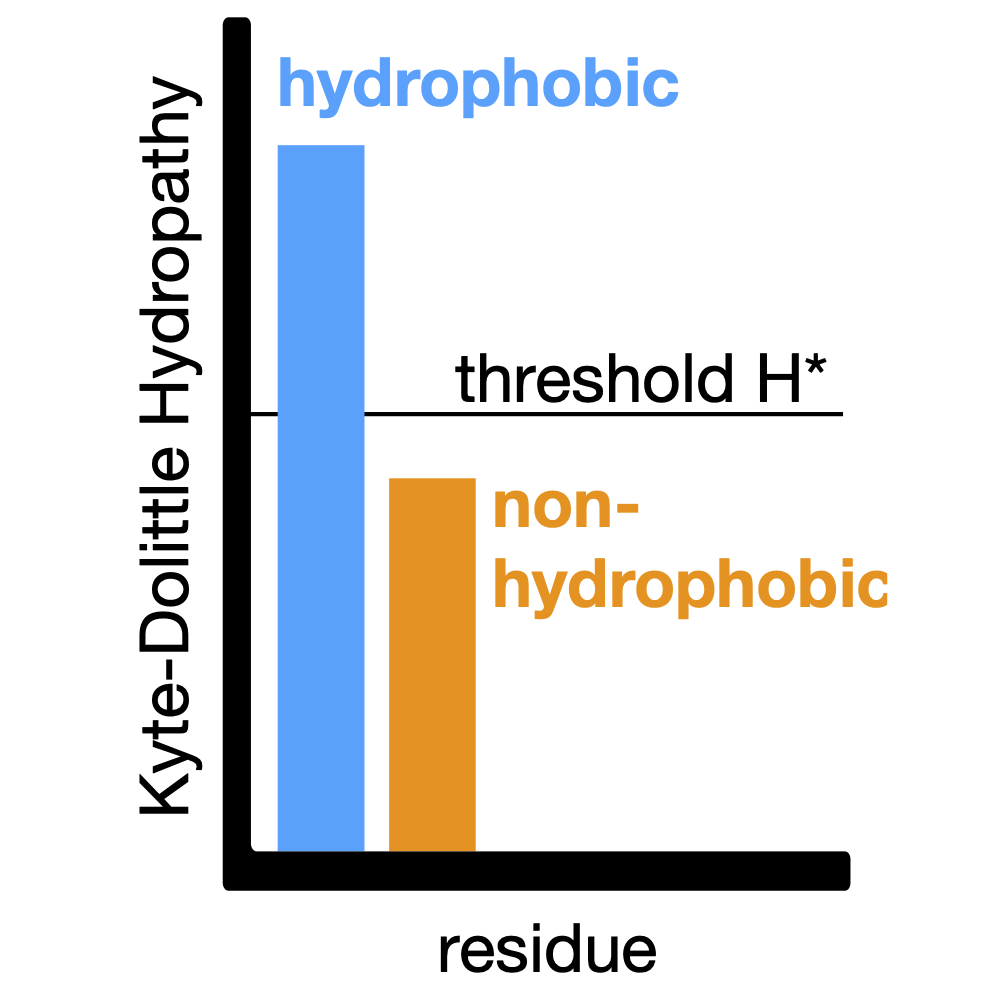
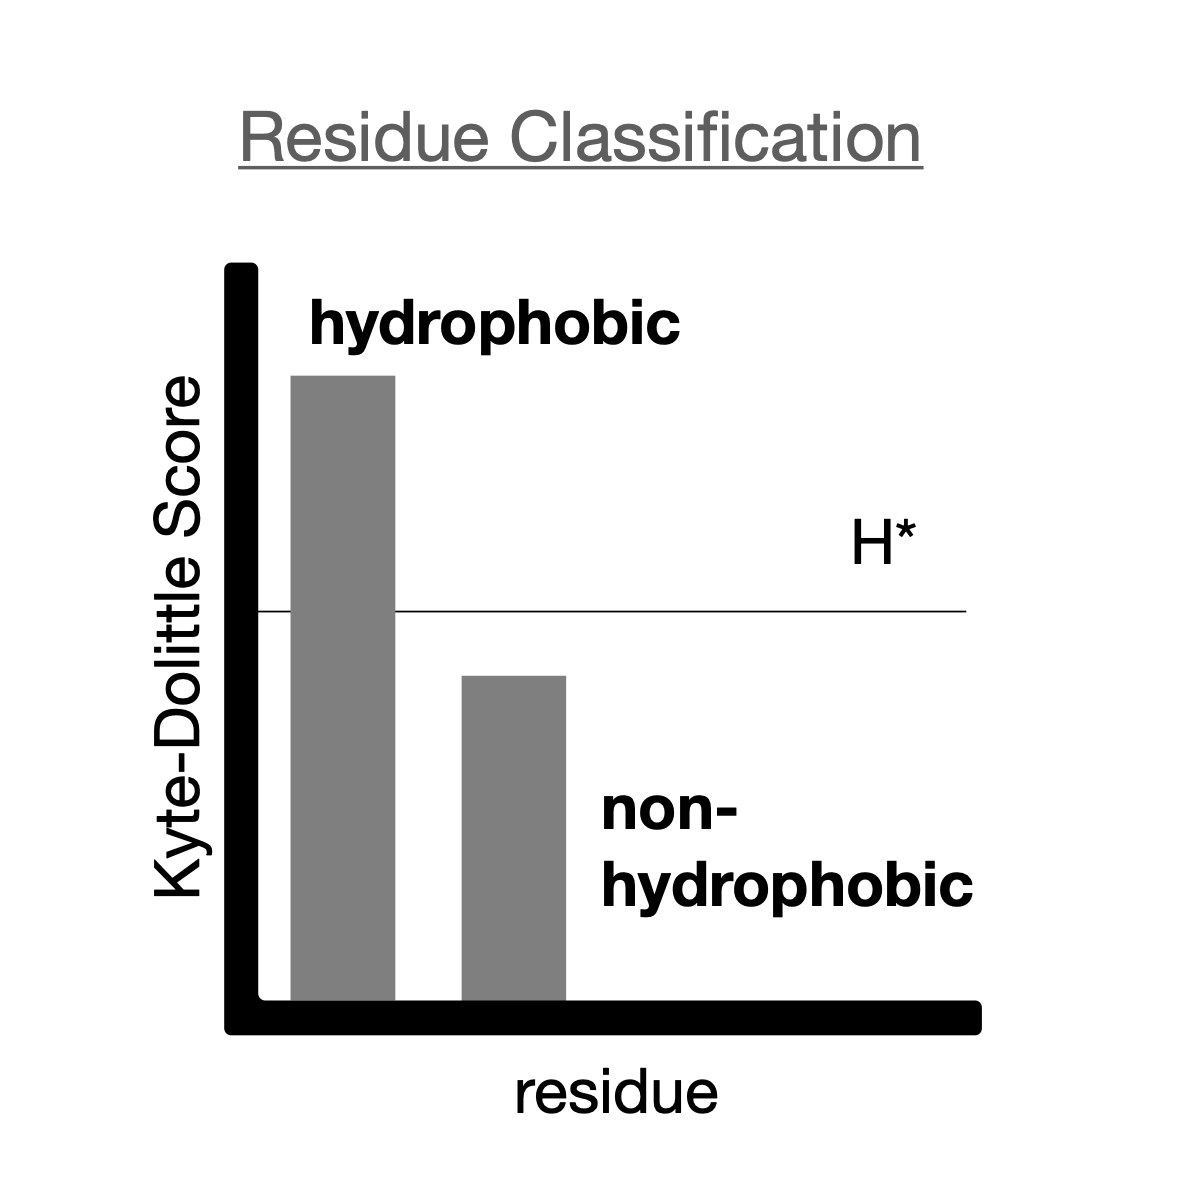
revising text for first two track tooltips

Changed region(s): [[0.124, 0.0, 0.899, 0.992]]

diff --git a/templates/result.html b/templates/result.html
@@ -13,10 +13,9 @@
 $(document).ready( function() {
 	//--------------Javascript for plotting in d3-------------
 	//tooltips
-	const hydropathy_tool_text = ("<p>The linear hydropathy uses a sliding, overlapping window approach to calculate the mean hydropathy for groups of 3 residues. This value is rescaled to lie between 0 (hydrophilic) and 1 (hydrophobic). This plot can help you identify how hydrophobicity varies along your sequence.</p>" +
-								"<p>Any stretch of 'minimum blob size' or more residues with mean hydropathy > 'hydropathy cutoff' is classified as a hydrophobic or “h” blob and any remaining stretch of four or more residues is classified as a non-hydrophobic linker or “p” blob. The determination for what constitutes a residue as hydrophobic or non-hydrophobic is shown in the figure below:</p> <img src=\"/static/blobulation_digitization_figure.png\" width=\"225\" height=\"225\" align=\"center\">")
+	const hydropathy_tool_text = ("<p>Each residue is classified as hydrophobic or nonhydrophobic, depending on whether the Kyte–Dolittle hydropathy score is above or below the hydrophobicity threshold H<sup>*</sup>. H<sup>*</sup> is determined by the user, and the process of digitizatizing the residues based on whether their hydrophobicity falls above or below this cutoff is shown in the figure below:</p> <img src=\"/static/blobulation_digitization_figure.png\" width=\"225\" height=\"225\" align=\"center\">")
 
-	const blob_track_text = "<p>Blobs are partitioned by two criteria - whether or not a contiguous stretch of residues are above the the hydropathy threshold set by the user, as well as if the total number of adjacent residues above the hydropathy threshold is greater than the minimum blob length. If a stretch is long enough to be a blob and above the hydropathy threshold, it is considered an <span style='color:#0071BC;'>h (hydrophobic) blob</span>. If not, it is considered a <span style='color:#F7931E;'>p (non-hydrophobic) blob</span>. If a group of non-hydrophobic residues is found between h blobs, but is not large enough to be considered a p blob, it is considered an <span style='color:#2DB11A;'>s (spacer) blob</span>.</p> <img src=\"/static/blobulation_concept_figure.png\" width=\"425\" height=\"250\" align=\"center\">"
+	const blob_track_text = "<p> After the residues are digitized (see the tooltip above), they are clustered as below: </p> <img src=\"/static/blobulation_concept_figure.png\" width=\"425\" height=\"250\" align=\"center\"> <p> Groups of residues are classified as either <span style='color:#0071BC;'>h blobs</span>, <span style='color:#F7931E;'>p blobs</span>, or <span style='color:#2DB11A;'>s blobs</span>. The user sets the minimum blob lentgh (L<sub>min</sub>), and the digitized residues are subsequently clustered into stretches which represent either h-blobs of L<sub>min</sub> or greater, or s and p blobs. H blobs which contain spacers (s blobs) are separated into \"groups\" (before and after the spacer), which are shown in the downloadable csv file as the blob type and number followed by a letter indicating the group.</p>"
 
 	const Das_Pappu_text = "<p>The Das-Pappu phase diagram provides a means to estimate how a disordered sequence might behave based on the charge content. Each blob is colored according to the region they fall in Das-Pappu phase diagram. </p> <img src=\"/static/daspappu_graph.png\" width=\"425\" height=\"350\"> "+
 		"<p> <i> <b> Figure adapted from: </b> <a href=\"https://www.pnas.org/content/early/2013/07/29/1304749110\" target=\"_blank\"> Das RK, Pappu RV (2013) Conformations of intrinsically disordered proteins are influenced by linear sequence distributions of oppositely charged residues PNAS 110(33):13392–13397.</i> </p>"
